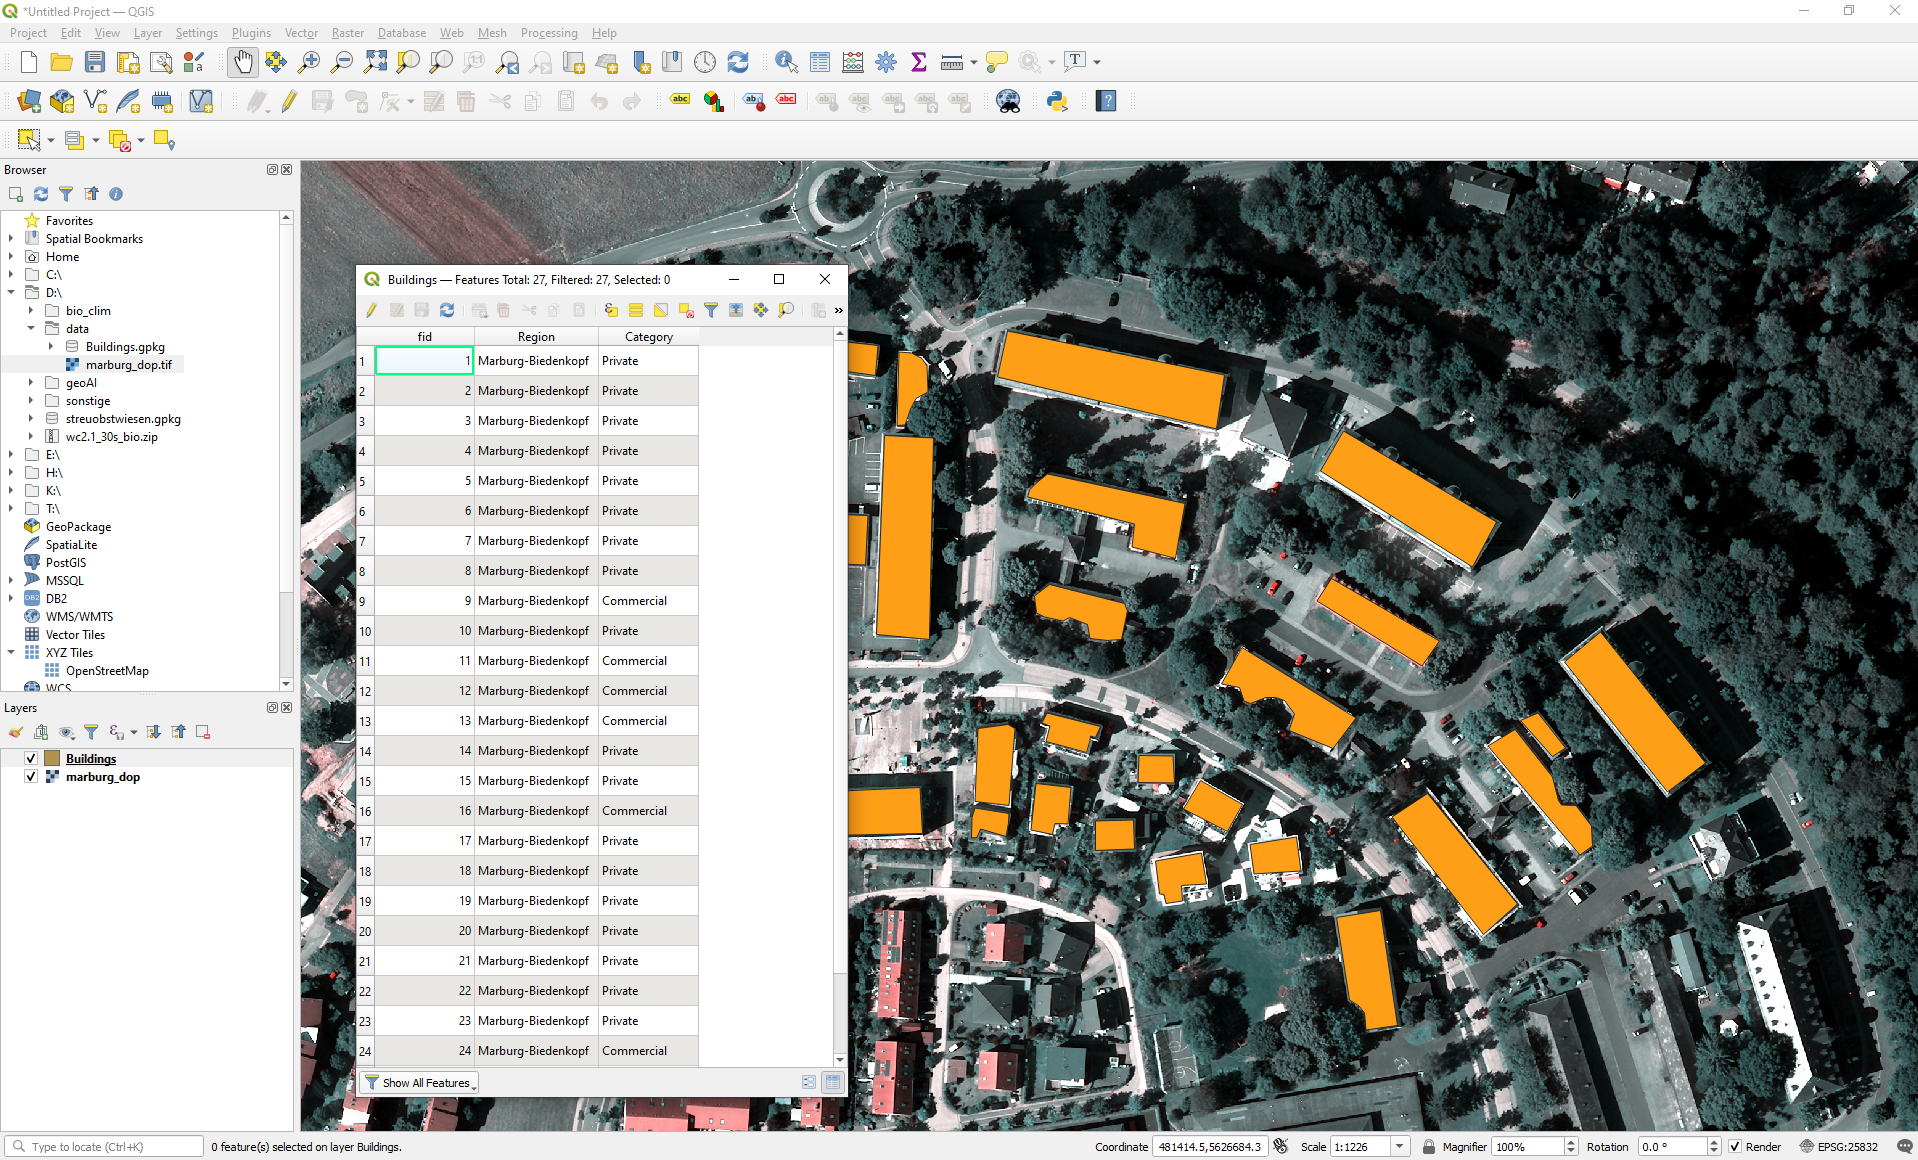
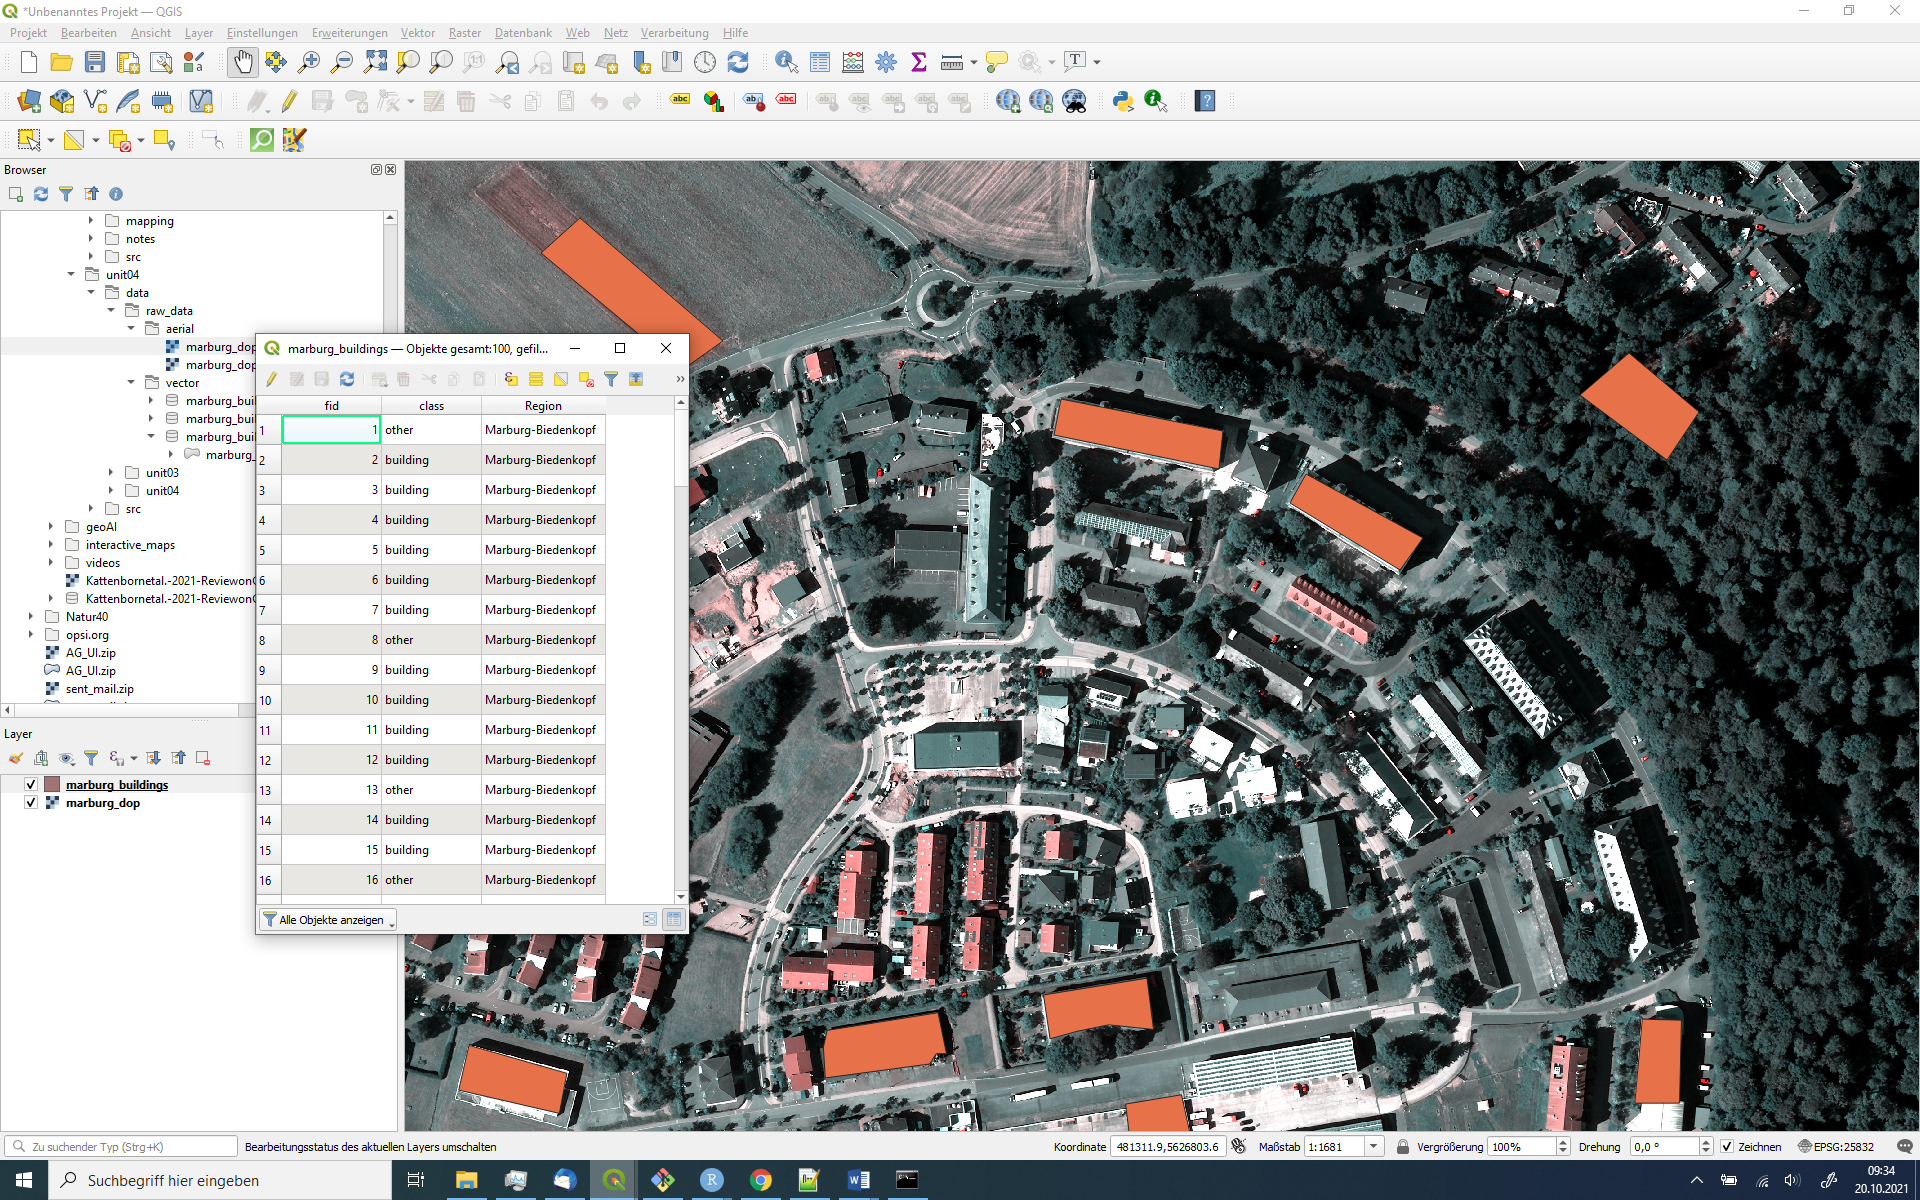
remove Streuobstwiese from exercises

diff --git a/docs/units/_unit01/unit01-05_warm-up-r-spatial.md b/docs/units/_unit01/unit01-05_warm-up-r-spatial.md
@@ -30,14 +30,14 @@ In detail, the following tasks have to be performed:
 ### Step 1 - Get the data and setup the working environment
 The Hessian State Department of Land Management and Geoinformation ([Hessische Verwaltung fuer Bodenmanagement und Geoinformation; HVBG](https://hvbg.hessen.de/)) uses an image-based DSM *to create what they call "TrueDOPs"*. The HVBG commissions flights for the entire state of Hesse every 2 years and makes the imagery available in 20cm and 40cm resolution with 4 channels: Red (R), Green (G), Blue (B) and Near-Infrared (NIR). More information about the *HVBG's TrueDOPs* is available [here](https://hvbg.hessen.de/geoinformation/landesvermessung/geotopographie/luftbilder/digitale-orthophotos-atkis%C2%AE-dops-und-true) (German only). 
 
-For convenience reasons the 40-cm DOP of our study area is available for [download](http://85.214.102.111/geo_data/data/01_raw_data/aerial/). Please note that the HVBG has provided these digital orthophotos free of charge for the purpose of education and that they may only be used in the context of this course.
+For the 20-cm DOP of our study area is available for [download](http://85.214.102.111/geo_data/data/01_raw_data/aerial/). Please note that the HVBG has provided these digital orthophotos free of charge for the purpose of education and that they may only be used in the context of this course.
 
 
 **Writing it down as a script** 
 Remember. We start **every single script** by reading our script "geoAI_setup.R", from unit 1. 
 Then we start the actual work :
 * We import a digital orthophoto of Marburg.  To import so called raster data we normally use the package `raster` which is loaded with the call `library(raster)`. We don`t need to do this, because we already loaded it via the setup script. 
-* Then we import a vector data set containing the areas of the orchards as polygons. 
+* Then we import a vector data set containing the areas of the buildings. 
 * Then we check the georeferencing.
 * and visualize the data
 {: .notice--info}
@@ -65,27 +65,27 @@ rasterStack = raster::stack(file.path(envrmt$data, "marburg_dop.tif"))
 Specifically, we use the `stack` function from the `raster` package to import the TIF file here. By using the `::` syntax, i.e. `package::function`, we guarantee that we are using a specific function from a specific package. This concept is important to ensure that we are using the correct function (because some packages use the same function names, which is called masking).
 
 #### Vector Data
-In QGIS, we created the **Streuobstwiese** polygons and exported them as a [GeoPackage](https://en.wikipedia.org/wiki/GeoPackage) (.gpkg). The GeoPackage format has several advantages compared to previous formats for saving and exchanging geospatial data. For example, it supports both raster and vector data and it is saved in one file (unlike e.g. [shapefiles](https://en.wikipedia.org/wiki/Shapefile)).
+We will use the [marburg_buildings.gpkg](http://85.214.102.111/geo_data/data/01_raw_data/vector/) containing Polygons of all buildings in the DOP. The  [GeoPackage](https://en.wikipedia.org/wiki/GeoPackage) (.gpkg) format has several advantages compared to previous formats for saving and exchanging geospatial data. For example, it supports both raster and vector data and it is saved in one file (unlike e.g. [shapefiles](https://en.wikipedia.org/wiki/Shapefile)).
 
-R can also handle vector data as well. A different package, `sf`, is required to read vector data of many types. Here, we use the function `read_sf` to import the **Streuobstwiese** polygons into R. 
+R can also handle vector data as well. A different package, `sf`, is required to read vector data of many types. Here, we use the function `read_sf` to import the buildings polygons into R. 
 
 ```r
 # Polygons, too:
-orchard = sf::read_sf(file.path(envrmt$data, "streuobst.gpkg"))
+buildings = sf::read_sf(file.path(envrmt$data, "marburg_buildings.gpkg"))
 ```
 #### Coordinate Reference System
-Geospatial data always needs a [coordinate reference system (CRS)](https://en.wikipedia.org/wiki/Spatial_reference_system). When we created the training areas in QGIS, we assigned the polygons in the GeoPackage the same CRS as the DOP, because they are part of the same project. In R, you can check the CRS of an imported layer using the `crs` function in the `raster` package.
+Geospatial data always needs a [coordinate reference system (CRS)](https://en.wikipedia.org/wiki/Spatial_reference_system). In R, you can check the CRS of an imported layer using the `crs` function in the `raster` package.
 
 ```r
 # 2 - check CRS and other info
 #-----------------------#
 raster::crs(rasterStack)
-raster::crs(orchard)
+raster::crs(buildings)
 ```
-As we assigned the CRS of the polygons using the DOP, we know that both of these layers will return the same CRS. In cases when you are uncertain if two layers have the same CRS, you can use a logical query to test if they are the same.
+Both of these layers should return the same CRS. In cases when you are uncertain if two layers have the same CRS, you can use a logical query to test if they are the same.
 
 ```r
-crs(rasterStack) == crs(orchard)
+crs(rasterStack) == crs(buildings)
 ```
 If these layers have the same CRS, this command will return `TRUE`. Otherwise, R will return `FALSE`. Queries like this can be useful for more complex geospatial data workflows, e.g. if two layers have the same CRS, then continue with the analysis, otherwise stop.
 

diff --git a/docs/units/_unit03/unit03-01_randomly_good.md b/docs/units/_unit03/unit03-01_randomly_good.md
@@ -12,19 +12,7 @@ Predicting spatial features with machine learning and random validation.
 
 <!--more-->
 
-Our goal is to determine areas of **Streuobstwiese** in the German state Hesse. To accomplish this goal, we will use a machine learning approach together with DOPs (digital orthophoto) as well as field surveys of the Hessian State Agency for Nature Conservation, Environment and Geology ([Hessisches Landesamt fuer Naturschutz, Umwelt und Geologie; HLNUG](https://www.hlnug.de/)).
-
-## Why orchard meadows?
-[**Streuobstwiese**](https://en.wikipedia.org/wiki/Orchard#Central_Europe) (engl. orchard meadows), i.e. tall, large-crowned fruit trees scattered mostly on grassland, are among the most endangered and species-rich biotopes in Central Europe. Until the beginning of the 20th century, they were the predominant commercial form of fruit production and were primarily farmed for economic reasons. **Streuobstwiese** became economically uninteresting after low-trunk fruit trees were introduced and the general economic situation changed after World War II. Many simply fell into ruin due to lack of care, lack of new plantings or abandonment. This trend was reversed in the 1980s, as aspects of landscape aesthetics and nature conservation became more important.
-
-The diverse structure of the **Streuobstwiese** provides a multitude of ecological gradients. They create diverse ecological niches for both plants and animals in a relatively small space and over time, making it one of the most species-rich biotopes in Europe. This semi-natural habitat is strongly dependent on regular maintenance, however, as new plantings, tree pruning and mowing are necessary for the great species diversity to continue to exist.
-
-![image](../assets/images/unit03/Tuebingen_Streuobstwiese.jpg)
-*Image: Streuobstwiese in Western Europe. ulrichstill [CC BY-SA 2.0 DE] via [wikipedia.org](https://de.wikipedia.org/wiki/Streuobstwiese#/media/Datei:Tuebingen_Streuobstwiese.jpg)*
-
-Information on the spatial distribution and the acreage of **Streuobstwiese** is necessary to observe their development and devise specific policy recommendations for the authorities. In addition to monitoring, the German state of Hesse (as well as in five other states) requires them to be registered, since **Streuobstwiese** outside of developed areas are protected by state and federal law (Federal Nature Conservation Act).
-
-Until now, these legally protected areas were recorded in the Hessian Habitat and Biotope Mapping (Hessische Lebensraum- und Biotopkartierung; HLBK) or its predecessor. However, manual records make it difficult to obtain regular and extensive information on their condition. **Streuobstwiese** have already been surveyed for the current HLBK, which HLNUG has made available to this course and we will use as training data. The more detailed criteria of the surveyed orchard areas can be found in the mapping unit description (Kartiereinheitenbeschreibung).
+{% include media4 url="assets/images/unit03/marburg_dop.html" %} [Full screen version of the map]({{ site.baseurl }}assets/images/unit04/marburg_buildings.html){:target="_blank"}
 
 
 ## Random forest -- The basics
@@ -63,15 +51,3 @@ Here are several videos that introduce the broad field of machine learning, in g
 6. [Random Forests in R (15:09)](https://www.youtube.com/watch?v=6EXPYzbfLCE){:target="_blank"}  
 7. [Machine Learning Fundamentals - Cross Validation (6:04)](https://www.youtube.com/watch?v=fSytzGwwBVw){:target="_blank"}
 
-### Literature about **Streuobstwiese**
-Fink, Peter; Heinze, Stefanie; Raths, Ulrike; Riecken, Uwe; Ssymank, Axel. [Naturschutz und Biologische Vielfalt Heft 156: Rote Liste der gefaehrdeten Biotoptypen Deutschlands](https://bfn.buchweltshop.de/nabiv-heft-156-rote-liste-der-gefahrdeten-biotoptypen-deutschlands.html). Bundesamt fuer Naturschutz (2017). [German]
-
-Herzog, Felix. Streuobst: a traditional agroforestry system as a model for agroforestry development in temperate Europe. Agroforestry Systems 42, 61-80 (1998). [https://doi.org/10.1023/A:1006152127824](https://doi.org/10.1023/A:1006152127824).
-
-Herzog, Felix; Oetmann, Anja. [Communities of Interest and Agro-Ecosystem Restoration: Streuobst in Europe in Interactions Between Agroecosystems and Rural Communities](https://www.taylorfrancis.com/chapters/edit/10.1201/9781420041385-11/communities-interest-agro-ecosystem-restoration-streuobst-europe-felix-herzog-anja-oetmann), edited by Flora, Cornelia. Boca Raton: CRC Press (2001). 
-
-Hessian Habitat and Biotope Mapping ([Hessische Lebensraum- und Biotopkartierung; HLBK](https://www.hlnug.de/themen/naturschutz/lebensraeume-und-biotopkartierungen/biotopkartierungen/hessische-lebensraum-und-biotopkartierung-hlbk-ab-2014)). [German]
-
-Silbereisen, Robert; Herzberger, Erwin. [Obstbaeume in der Landschaft](https://www.amazon.de/Obstb%C3%A4ume-Landschaft-Rupprecht-Lucke/dp/3800155389), edited by Lucke, Rupprecht. Stuttgart: Ulmer (1992). [German]
-
-Zehnder, Markus; Weller, Friedrich. [Streuobstbau: Obstwiesen erleben und erhalten.](https://www.amazon.de/Streuobstbau-Obstwiesen-erhalten-Markus-Zehnder/dp/3800108100) 3rd Edition. Stuttgart: Ulmer (2016). [German]

diff --git a/docs/units/_unit02/unit02-03_digitize_training_areas.md b/docs/units/_unit02/unit02-03_digitize_training_areas.md
@@ -38,7 +38,7 @@ The following illustration shows the steps of a supervised classification in mor
 
 
 ## Assignment
-This exercise will prepare the polygon data that is necessary to predict **Streuobstwiese** (engl. orchard meadows) in Hesse. Please follow along with the example of creating a vector layer of buildings in QGIS. Then, complete the same steps for the **Streuobstwiese**. Remember to save your data in the appropriate folder from the setup in Unit 1!
+This exercise will prepare the polygon data that is necessary to predict buildings in Marburg, Hesse. Please follow along with the example of creating a vector layer of buildings in QGIS. Remember to save your data in the appropriate folder from the setup in Unit 1!
 
 ### Creating vector layers in QGIS
 We will use the open source GIS QGIS to create training areas. In this course, we will use the current long-term release (as of October 2021), QGIS 3.16.11 Hannover. You can download QGIS either as a [standalone version](https://qgis.org/en/site/forusers/download.html) or using OSGeo4w.
@@ -53,7 +53,8 @@ Next, we need to create a new GeoPackage layer, in which we will save the polygo
 
 {% include figure image_path="/assets/images/unit02/step2_create_gpkg_layer.png" alt="Create new GeoPackage layer" %}
 
-In the "New GeoPackage Layer" window, give your new GeoPackage a name in the Database field. You also need to assign a name to the Table. Next, select the geometry type -- in this case "Polygon" because we want to create polygons. Then select the CRS for the layer. We want our polygons to have the same CRS as our DOP, so we select the option that begins with "Project CRS:". Finally, we have the option to add fields. Every polygon will have some unique attributes that will appear in the Attribute Table. We can use the attributes of a polygon (or any other geometry) to filter. It's important to think of generic categories for the fields, because they will be headers of columns and each polygon will be an entry in the table. In this example, we have chosen "Region" and "Category" for our polygons, both of type text and length 20. To create the Layer, click OK.
+In the "New GeoPackage Layer" window, give your new GeoPackage a name in the Database field. You also need to assign a name to the Table. Next, select the geometry type -- in this case "Polygon" because we want to create polygons. Then select the CRS for the layer. We want our polygons to have the same CRS as our DOP, so we select the option that begins with "Project CRS:". Finally, we have the option to add fields. Every polygon will have some unique attributes that will appear in the Attribute Table. We can use the attributes of a polygon (or any other geometry) to filter. It's important to think of generic categories for the fields, because they will be headers of columns and each polygon will be an entry in the table. In this example, we have chosen "Region" and "class" for our polygons, both of type text and length 20. To create the Layer, click OK. The category in the "class" field is particularly important for the prediction we will make in unit 3. Create polygons with two categories of "class": one class in which you assign the value "building" to the digitized houses and another class in which you digitize various other aspects of the space, these polygons should have the value "other". Try to mix your polygons well in this category, i.e. include roads, cars, houses, water, fields, meadows and forest, in order to represent as broad a spectrum as possible.
+
 
 Then, we need to toggle editing on for the Buildings layer. Right click on the Buildings layer in the Layer panel and select "Toggle editing". You also have the button to toggle editing on in the toolbar, if you have the Digitizing toolbar enabled ("View" > "Toolbars" > "Digitizing Toolbar"). 
 
@@ -65,7 +66,7 @@ Start by clicking on a point somewhere along the edge of a building's rooftop. C
 
 {% include figure image_path="/assets/images/unit02/step4_draw_polygon.png" alt="Draw first polygon" %}
 
-After you place your last point, right click to finish drawing the polygon. This will finalize the feature and open the Feature Attributes dialogue menu. Here, you can assign the characteristics of that polygon to it -- in this case, the polygon is located in the region "Marburg-Biedenkopf" and belongs to the category "Private".
+After you place your last point, right click to finish drawing the polygon. This will finalize the feature and open the Feature Attributes dialogue menu. Here, you can assign the characteristics of that polygon to it -- in this case, the polygon is located in the region "Marburg-Biedenkopf" and belongs to the class "building".
 
 {% include figure image_path="/assets/images/unit02/step5_assign_attributes.png" alt="Fill in attribute entries" %}
 
